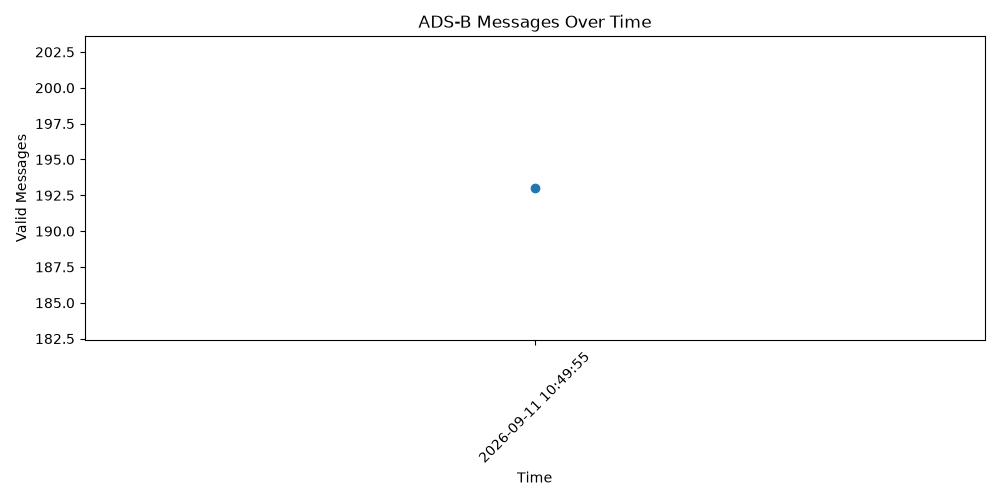
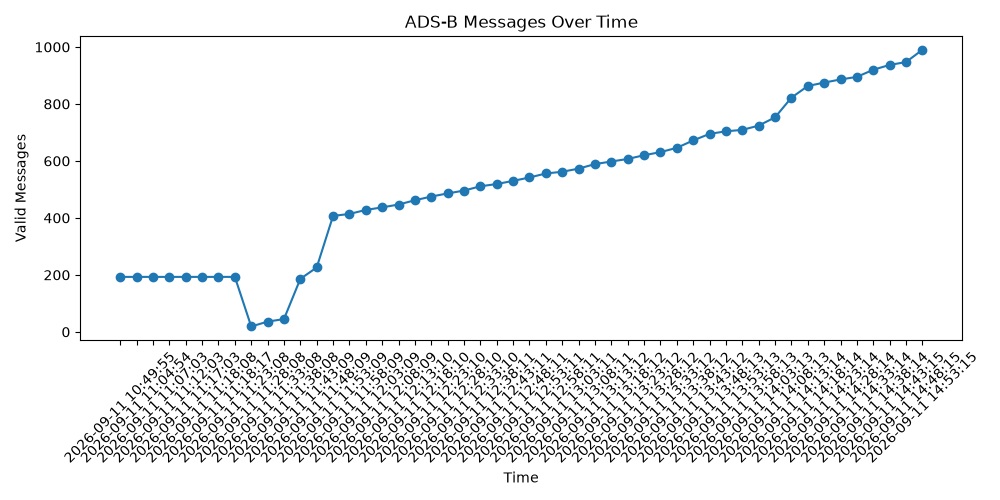
Add dashboard, signal monitoring and automated ADS-B pipeline

diff --git a/dashboard/index.html b/dashboard/index.html
@@ -1,0 +1,69 @@
+<!DOCTYPE html PUBLIC "-//W3C//DTD HTML 4.01//EN" "http://www.w3.org/TR/html4/strict.dtd">
+<html>
+<head>
+  <meta http-equiv="Content-Type" content="text/html; charset=utf-8">
+  <meta http-equiv="Content-Style-Type" content="text/css">
+  <title></title>
+  <meta name="Generator" content="Cocoa HTML Writer">
+  <meta name="CocoaVersion" content="2685.7">
+  <style type="text/css">
+    p.p1 {margin: 0.0px 0.0px 0.0px 0.0px; font: 12.0px Times; -webkit-text-stroke: #000000}
+    p.p2 {margin: 0.0px 0.0px 0.0px 0.0px; font: 12.0px Times; -webkit-text-stroke: #000000; min-height: 14.0px}
+    span.s1 {font-kerning: none}
+  </style>
+</head>
+<body>
+<p class="p1"><span class="s1">&lt;!DOCTYPE html&gt;</span></p>
+<p class="p1"><span class="s1">&lt;html&gt;</span></p>
+<p class="p1"><span class="s1">&lt;head&gt;</span></p>
+<p class="p1"><span class="s1">&lt;meta charset="utf-8"&gt;</span></p>
+<p class="p1"><span class="s1">&lt;title&gt;Aviation Data Dashboard&lt;/title&gt;</span></p>
+<p class="p2"><span class="s1"></span><br></p>
+<p class="p1"><span class="s1">&lt;style&gt;</span></p>
+<p class="p1"><span class="s1">body {</span></p>
+<p class="p1"><span class="s1">font-family: Arial, sans-serif;</span></p>
+<p class="p1"><span class="s1">background: #f4f4f4;</span></p>
+<p class="p1"><span class="s1">margin: 40px;</span></p>
+<p class="p1"><span class="s1">}</span></p>
+<p class="p2"><span class="s1"></span><br></p>
+<p class="p1"><span class="s1">.card {</span></p>
+<p class="p1"><span class="s1">background: white;</span></p>
+<p class="p1"><span class="s1">padding: 20px;</span></p>
+<p class="p1"><span class="s1">margin-bottom: 20px;</span></p>
+<p class="p1"><span class="s1">border-radius: 12px;</span></p>
+<p class="p1"><span class="s1">box-shadow: 0 2px 10px rgba(0,0,0,.1);</span></p>
+<p class="p1"><span class="s1">}</span></p>
+<p class="p2"><span class="s1"></span><br></p>
+<p class="p1"><span class="s1">img {</span></p>
+<p class="p1"><span class="s1">max-width: 100%;</span></p>
+<p class="p1"><span class="s1">}</span></p>
+<p class="p1"><span class="s1">&lt;/style&gt;</span></p>
+<p class="p2"><span class="s1"></span><br></p>
+<p class="p1"><span class="s1">&lt;/head&gt;</span></p>
+<p class="p2"><span class="s1"></span><br></p>
+<p class="p1"><span class="s1">&lt;body&gt;</span></p>
+<p class="p2"><span class="s1"></span><br></p>
+<p class="p1"><span class="s1">&lt;h1&gt;✈ Aviation Data Dashboard&lt;/h1&gt;</span></p>
+<p class="p2"><span class="s1"></span><br></p>
+<p class="p1"><span class="s1">&lt;div class="card"&gt;</span></p>
+<p class="p1"><span class="s1">&lt;h2&gt;System Status&lt;/h2&gt;</span></p>
+<p class="p2"><span class="s1"></span><br></p>
+<p class="p1"><span class="s1">&lt;ul&gt;</span></p>
+<p class="p1"><span class="s1">&lt;li&gt;RTL-SDR Active ✅&lt;/li&gt;</span></p>
+<p class="p1"><span class="s1">&lt;li&gt;ADS-B Reception Active ✅&lt;/li&gt;</span></p>
+<p class="p1"><span class="s1">&lt;li&gt;CSV Logging Active ✅&lt;/li&gt;</span></p>
+<p class="p1"><span class="s1">&lt;li&gt;Launchd Active ✅&lt;/li&gt;</span></p>
+<p class="p1"><span class="s1">&lt;li&gt;Traffic Plot Active ✅&lt;/li&gt;</span></p>
+<p class="p1"><span class="s1">&lt;/ul&gt;</span></p>
+<p class="p2"><span class="s1"></span><br></p>
+<p class="p1"><span class="s1">&lt;/div&gt;</span></p>
+<p class="p2"><span class="s1"></span><br></p>
+<p class="p1"><span class="s1">&lt;div class="card"&gt;</span></p>
+<p class="p1"><span class="s1">&lt;h2&gt;Traffic Visualization&lt;/h2&gt;</span></p>
+<p class="p2"><span class="s1"></span><br></p>
+<p class="p1"><span class="s1">&lt;img src="../visualizations/traffic_over_timev&gt;</span></p>
+<p class="p2"><span class="s1"></span><br></p>
+<p class="p1"><span class="s1">&lt;/body&gt;</span></p>
+<p class="p1"><span class="s1">&lt;/html&gt;</span></p>
+</body>
+</html>

diff --git a/scripts/plot_signal.py b/scripts/plot_signal.py
@@ -1,0 +1,22 @@
+import pandas as pd
+import matplotlib.pyplot as plt
+
+df = pd.read_csv(
+    "/Users/murathanakar/Aviation-Data-Project-1/data/processed/traffic_log.csv"
+)
+
+plt.figure(figsize=(10, 5))
+plt.plot(df["timestamp"], df["signal"], marker="o")
+
+plt.title("Signal Strength Over Time")
+plt.xlabel("Time")
+plt.ylabel("Signal (dB)")
+
+plt.xticks(rotation=45)
+plt.tight_layout()
+
+plt.savefig(
+    "/Users/murathanakar/Aviation-Data-Project-1/visualizations/signal_strength.png"
+)
+
+print("Signal chart created")

diff --git a/scripts/plot_tracks.py b/scripts/plot_tracks.py
@@ -1,0 +1,22 @@
+import pandas as pd
+import matplotlib.pyplot as plt
+
+df = pd.read_csv(
+    "/Users/murathanakar/Aviation-Data-Project-1/data/processed/traffic_log.csv"
+)
+
+plt.figure(figsize=(10, 5))
+plt.plot(df["timestamp"], df["tracks"], marker="o")
+
+plt.title("Aircraft Tracks Over Time")
+plt.xlabel("Time")
+plt.ylabel("Tracks")
+
+plt.xticks(rotation=45)
+plt.tight_layout()
+
+plt.savefig(
+    "/Users/murathanakar/Aviation-Data-Project-1/visualizations/tracks_over_time.png"
+)
+
+print("Tracks chart created")

diff --git a/scripts/export_csv.py b/scripts/export_csv.py
@@ -3,7 +3,7 @@ import csv
 import os
 from datetime import datetime
 
-with open("../data/raw/stats.json", "r") as f:
+with open("/Users/murathanakar/data/raw/stats.json", "r") as f:
     data = json.load(f)
 
 total = data["total"]
